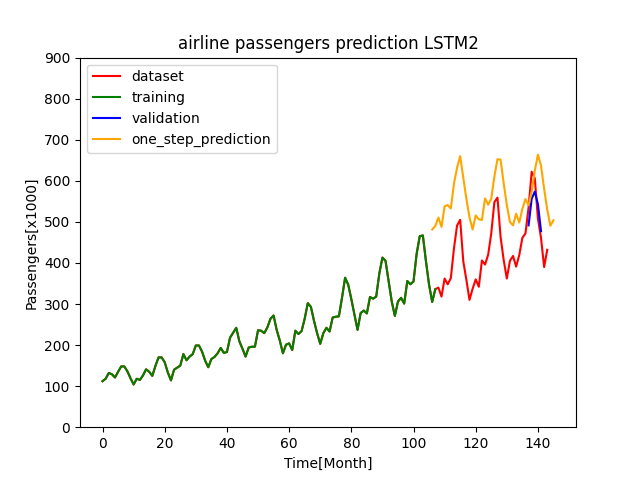
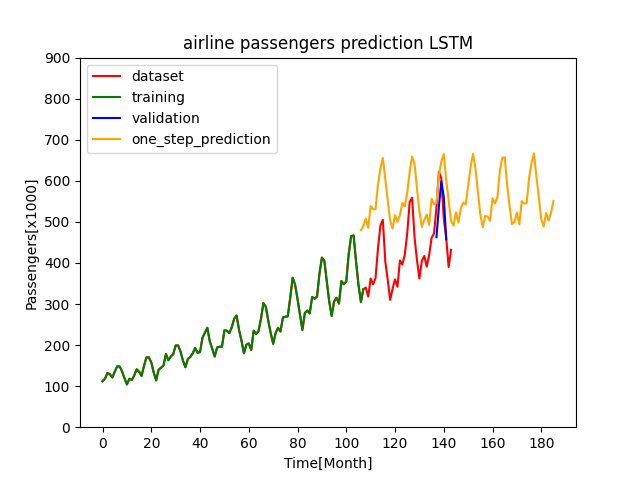
increase forecast in airlinePassengers_keras_lstm

diff --git a/TimeSeriesPrediction/2_UnivariatTimeSeriesForecast/AirlinePassengers/Keras/LSTM/airline_passengers_keras_lstm.py b/TimeSeriesPrediction/2_UnivariatTimeSeriesForecast/AirlinePassengers/Keras/LSTM/airline_passengers_keras_lstm.py
@@ -93,7 +93,7 @@ def one_step_ahead_forecast(model, current_value, number_of_predictions):
 start_index = -1
 start_value = train_inputs[start_index]
 start_value_reshaped = start_value.reshape(1, start_value.shape[0], start_value.shape[1])
-number_of_predictions = 40
+number_of_predictions = 80
 prediction_results = one_step_ahead_forecast(model, start_value_reshaped, number_of_predictions)
 
 prediction = pd.DataFrame()
@@ -107,7 +107,7 @@ plt.plot(prediction["one_step_prediction"], color="orange", label="one_step_pred
 plt.title("airline passengers prediction LSTM")
 plt.xlabel("Time[Month]")
 plt.ylabel("Passengers[x1000]")
-plt.xticks(range(0, 150, 20))
+plt.xticks(range(0, 200, 20))
 plt.yticks(range(0, 1000, 100))
 plt.legend(loc="upper left")
 plt.savefig("./airlinePassengers_keras_lstm.png")
